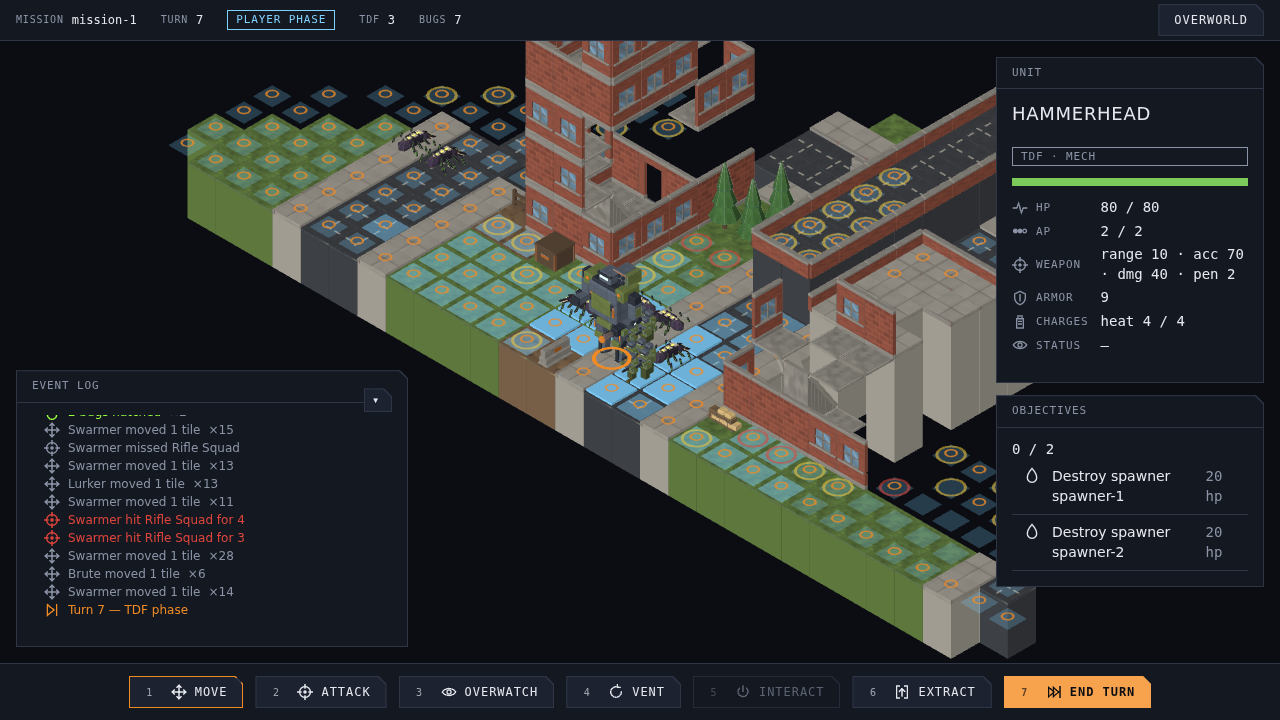
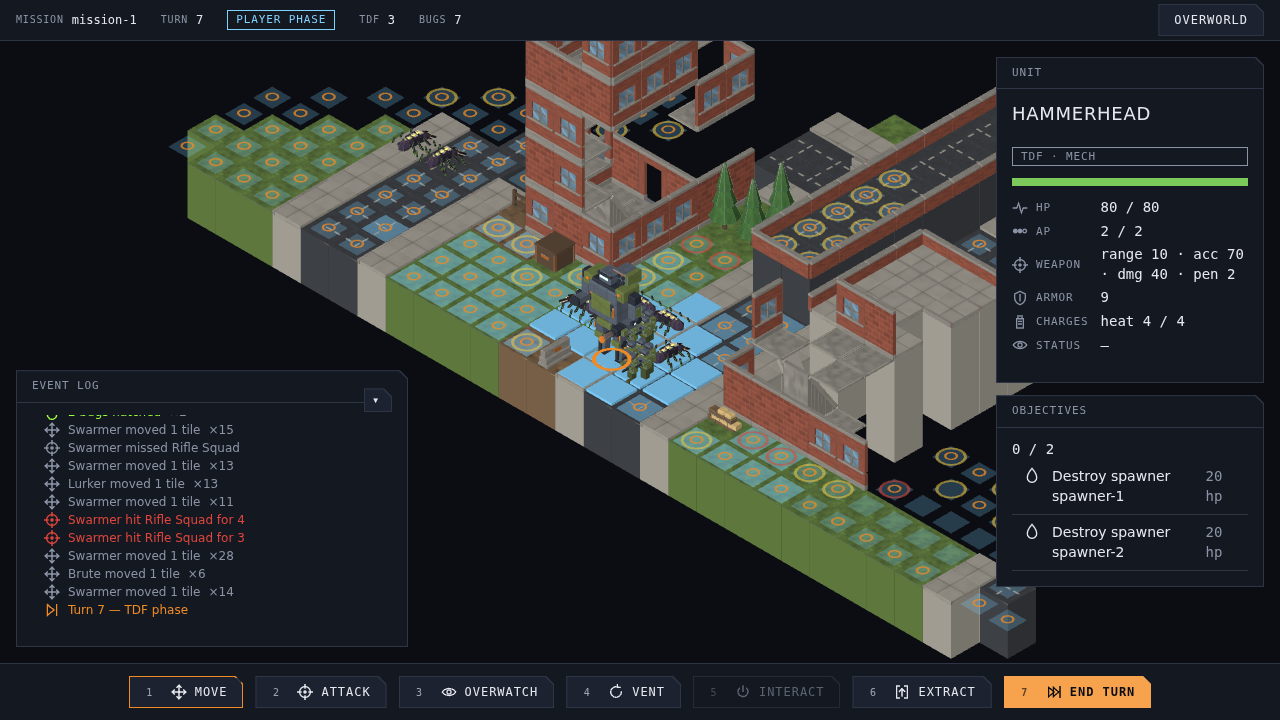
fix(graphics): the tile top is the surface, so the slab sits under it (#557)
tileTop already meant "the surface you stand on" everywhere except the
one place that mattered: the preview box puts its top face there, but
map-model-resolver placed the ground slab model — pivot at centre, style
guide §7 — with its pivot on that plane, so the surface a player sees
stood half a slab above it and everything measured from it sat half a
slab low. Units' feet were inside the floor, and #555 had to raise
OVERLAY_LIFT to a whole slab thickness to get overlays out of the ground.

The slab now goes half a thickness down, so its top face lands on
tileTop. Nothing else moves: walls and props are base-pivoted and were
already correct against that plane, and the preview box always agreed
with it. OVERLAY_LIFT goes back to 0.02, a nudge between two coincident
planes, and #555's palette test now guards that it stays a nudge rather
than a slab.

tileTop carries the definition in its doc comment, and a test pins the
chain end to end: slab surface, unit feet and overlay in the right order,
at every level.

Rendered the same seed before and after: nothing sank or floated, and the
overlays still draw at the smaller lift, which is what would have broken
had the surface not moved with them.

Claude-Session: https://claude.ai/code/session_018DYoPrUZgvCaPdMHuzoejC

diff --git a/src/graphics/service/map-model-resolver.test.ts b/src/graphics/service/map-model-resolver.test.ts
@@ -5,8 +5,12 @@ import { SurfaceIds } from "../../mapgen/data/surfaces";
 import type { TacticalMap } from "../../mapgen/model/tactical-map";
 import type { TileCoord } from "../../mapgen/model/tile-coord";
 import { FixtureMapBuilder } from "../../mapgen/service/fixture-map-builder";
-import { tileTop } from "../view/tactical-map-view";
+import { tileTop, tileTopCentre } from "../view/tactical-map-view";
 import type { ModelPlacement } from "./map-model-resolver";
+import {
+  GROUND_SLAB_THICKNESS,
+  OVERLAY_LIFT,
+} from "../data/tactical-overlay-palette";
 import {
   mapModelIds,
   resolveMapModels,
@@ -51,18 +55,27 @@ function painted(surface: string, coords: readonly TileCoord[]): TacticalMap {
 // ===========================================
 
 describe("resolveMapModels — surfaces", () => {
-  it("maps each plain surface to its registered slab at the tile top", () => {
+  it("puts each plain surface's top face on the tile top (#557)", () => {
     const map = painted(SurfaceIds.GRASS, [at(1, 1)]);
     const placement = tileAt(map, at(1, 1));
     expect(placement?.modelId).toBe("tile.ground.grass");
     expect(placement?.turns).toBe(0);
-    expect(placement?.position.y).toBe(tileTop(0));
+    // The slab pivots at its centre, so the pivot goes half a thickness
+    // below for the surface a unit stands on to land on `tileTop` —
+    // where the preview box has always put its own top face. Pivoting on
+    // `tileTop` is what left everything placed on a tile half a slab low.
+    expect(placement?.position.y).toBe(tileTop(0) - GROUND_SLAB_THICKNESS / 2);
+    expect(
+      (placement?.position.y ?? 0) + GROUND_SLAB_THICKNESS / 2,
+    ).toBeCloseTo(tileTop(0), 10);
   });
 
   it("recesses water below the surrounding ground", () => {
     const map = painted(SurfaceIds.WATER, [at(2, 2)]);
     expect(tileAt(map, at(2, 2))?.modelId).toBe("tile.ground.water");
-    expect(tileAt(map, at(2, 2))?.position.y).toBe(tileTop(0) - WATER_RECESS);
+    expect(tileAt(map, at(2, 2))?.position.y).toBe(
+      tileTop(0) - GROUND_SLAB_THICKNESS / 2 - WATER_RECESS,
+    );
   });
 
   it("maps interior surfaces to the building kit", () => {
@@ -266,5 +279,42 @@ describe("mapModelIds", () => {
     expect(ids).toContain("tile.ground.grass");
     expect(ids).toContain("building.wall");
     expect(ids).toContain("prop.crate");
+  });
+});
+// ===========================================
+// The tile's top surface (#557)
+// ===========================================
+
+describe("everything placed on a tile measures from one plane", () => {
+  it("puts the slab's surface, a unit's feet and an overlay in the right order", () => {
+    const map = painted(SurfaceIds.GRASS, [at(1, 1)]);
+    const placement = tileAt(map, at(1, 1));
+    expect(placement).toBeDefined();
+    if (!placement) return;
+
+    // The one definition: `tileTop` is the surface a unit stands on.
+    const surface = placement.position.y + GROUND_SLAB_THICKNESS / 2;
+    expect(surface).toBeCloseTo(tileTop(0), 10);
+
+    // A unit is placed at `tileTopCentre`, so its feet are on it rather
+    // than half a slab inside it — the defect this issue is named for.
+    expect(tileTopCentre({ x: 1, y: 0, z: 1 }).y).toBeCloseTo(surface, 10);
+
+    // And an overlay clears it, by a nudge rather than by a slab.
+    expect(tileTop(0) + OVERLAY_LIFT).toBeGreaterThan(surface);
+    expect(tileTop(0) + OVERLAY_LIFT - surface).toBeLessThan(
+      GROUND_SLAB_THICKNESS,
+    );
+  });
+
+  it("holds at every level, not just the ground", () => {
+    for (const level of [0, 1]) {
+      const map = painted(SurfaceIds.GRASS, [at(1, 1, level)]);
+      const placement = tileAt(map, at(1, 1, level));
+      expect([
+        level,
+        (placement?.position.y ?? 0) + GROUND_SLAB_THICKNESS / 2,
+      ]).toEqual([level, tileTop(level)]);
+    }
   });
 });

diff --git a/src/graphics/data/tactical-overlay-palette.ts b/src/graphics/data/tactical-overlay-palette.ts
@@ -155,21 +155,22 @@ export const LINE_OF_SIGHT_PIP_SEGMENTS = 12;
 export const GROUND_SLAB_THICKNESS = 0.05;
 
 /**
- * Lift above the tile top, so an overlay clears the slab rather than
- * being drawn inside it.
+ * Lift above the tile top, so an overlay does not z-fight the ground it
+ * is painted on.
  *
- * This has to exceed `GROUND_SLAB_THICKNESS / 2` = 0.025. It used to be
- * 0.02, which was fine while the map was flat placeholder boxes but has
- * been *below the ground surface* since #474 put the real tile models in
- * — every overlay was drawn inside the slab and depth-tested away, so
- * move range, cover and line of sight all rendered invisibly. A full
- * slab thickness clears the top half with the same margin again, and
- * still reads as painted on the ground rather than floating.
+ * A nudge, which is all it ever should have been. It was raised to a
+ * whole slab thickness in #555 because the slab model was placed with
+ * its pivot on `tileTop`, putting the surface half a slab *above* the
+ * plane every overlay measured from, so an overlay at 0.02 was drawn
+ * inside the ground and depth-tested away. #557 moved the slab so its
+ * top face lands on `tileTop`, which is where the preview box has always
+ * put its own, so clearing the surface no longer costs anything and this
+ * goes back to keeping two coincident planes apart.
  *
  * The other layers lift by multiples of this (`× 1.5`, `× 2`, `× 3`), so
  * raising the base raises all of them together.
  */
-export const OVERLAY_LIFT = GROUND_SLAB_THICKNESS;
+export const OVERLAY_LIFT = 0.02;
 
 /** Slab thickness of the range quads. */
 export const RANGE_THICKNESS = 0.02;

diff --git a/src/graphics/data/tactical-overlay-palette.test.ts b/src/graphics/data/tactical-overlay-palette.test.ts
@@ -22,23 +22,15 @@ import {
 // ===========================================
 
 describe("tactical overlay palette", () => {
-  it("lifts overlays clear of the ground slab they are painted on", () => {
-    // The regression this guards: a slab model pivots at its centre, so
-    // half of it stands above the tile top. An overlay lifted less than
-    // that is drawn inside the ground and depth-tested away — which is
-    // what happened to every overlay when the real tile art landed.
-    expect(OVERLAY_LIFT).toBeGreaterThan(GROUND_SLAB_THICKNESS / 2);
-  });
-
-  it("keeps every lifted layer clear of the slab too", () => {
-    // The cover rings, line-of-sight pips and the dearer move band lift
-    // by multiples of the base, so the smallest multiple is the one that
-    // has to clear.
-    for (const multiple of [1, 1.5, 2, 3]) {
-      expect(OVERLAY_LIFT * multiple).toBeGreaterThan(
-        GROUND_SLAB_THICKNESS / 2,
-      );
-    }
+  it("lifts overlays off the ground without clearing a slab", () => {
+    // #555 raised this to a whole slab thickness because the slab model
+    // was pivoted on `tileTop`, so half of it stood above the plane
+    // overlays measured from and anything lifted less was drawn inside
+    // the ground. #557 moved the slab so its top face lands on
+    // `tileTop`; the lift is a nudge between two coincident planes
+    // again, and paying a slab for it would read as hovering.
+    expect(OVERLAY_LIFT).toBeGreaterThan(0);
+    expect(OVERLAY_LIFT).toBeLessThan(GROUND_SLAB_THICKNESS);
   });
 
   it("keeps the overlays hugging the ground rather than floating", () => {

diff --git a/src/graphics/service/map-model-resolver.ts b/src/graphics/service/map-model-resolver.ts
@@ -16,6 +16,7 @@ import {
   surfaceModel,
   wallModel,
 } from "../data/map-model-table";
+import { GROUND_SLAB_THICKNESS } from "../data/tactical-overlay-palette";
 import { tileTop } from "../view/tactical-map-view";
 
 // ===========================================
@@ -127,7 +128,15 @@ export function mapModelIds(
 // Tiles
 // ===========================================
 
-/** One slab per tile, sitting on the tile's top face; water is recessed. */
+/**
+ * One slab per tile, sitting on the tile's top face; water is recessed.
+ *
+ * The slab model is authored with its pivot at centre (style guide §7),
+ * so it is placed half a thickness below `tileTop` for its **top face**
+ * to land there — the same place the preview box puts its own top face.
+ * Placing the pivot at `tileTop` is what left the surface half a slab
+ * high and everything measured from it half a slab low (#557).
+ */
 function resolveTiles(
   map: TacticalMap,
   index: TileIndex,
@@ -142,7 +151,11 @@ function resolveTiles(
     placements.push({
       modelId: fitted.modelId,
       level: tile.y,
-      position: { x: tile.x + 0.5, y: tileTop(tile.y) - drop, z: tile.z + 0.5 },
+      position: {
+        x: tile.x + 0.5,
+        y: tileTop(tile.y) - GROUND_SLAB_THICKNESS / 2 - drop,
+        z: tile.z + 0.5,
+      },
       turns: fitted.turns,
       tile: { x: tile.x, y: tile.y, z: tile.z },
     });

diff --git a/src/graphics/view/tactical-map-view.ts b/src/graphics/view/tactical-map-view.ts
@@ -787,7 +787,24 @@ export class TacticalMapView implements Disposable, TilePicker {
 // Geometry helpers
 // ===========================================
 
-/** World height of a tile's top surface. Shared with the unit meshes. */
+/**
+ * The world height of a tile's **top surface** — the plane a unit stands
+ * on, a wall rises from, and an overlay is painted just above (#557).
+ *
+ * ```
+ *   ── tileTop(y) ─────────────  surface: units, walls, props, overlays
+ *      ▒▒▒▒▒▒▒▒▒▒  ground slab, pivot at its centre, so it is placed
+ *                  GROUND_SLAB_THICKNESS / 2 below this line
+ *   ── y · LEVEL_HEIGHT ───────  the level's base
+ * ```
+ *
+ * One definition, and everything measures from it: the preview box puts
+ * its top face here, `map-model-resolver` drops the slab model half a
+ * thickness so its top face lands here, `tileTopCentre` is this plus the
+ * tile's centre, and `OVERLAY_LIFT` is a nudge above it. Placing a
+ * centre-pivoted model *at* this plane is what left the visible surface
+ * half a slab high and everything on it half a slab low.
+ */
 export function tileTop(level: number): number {
   return level * LEVEL_HEIGHT + SLAB_HEIGHT;
 }
